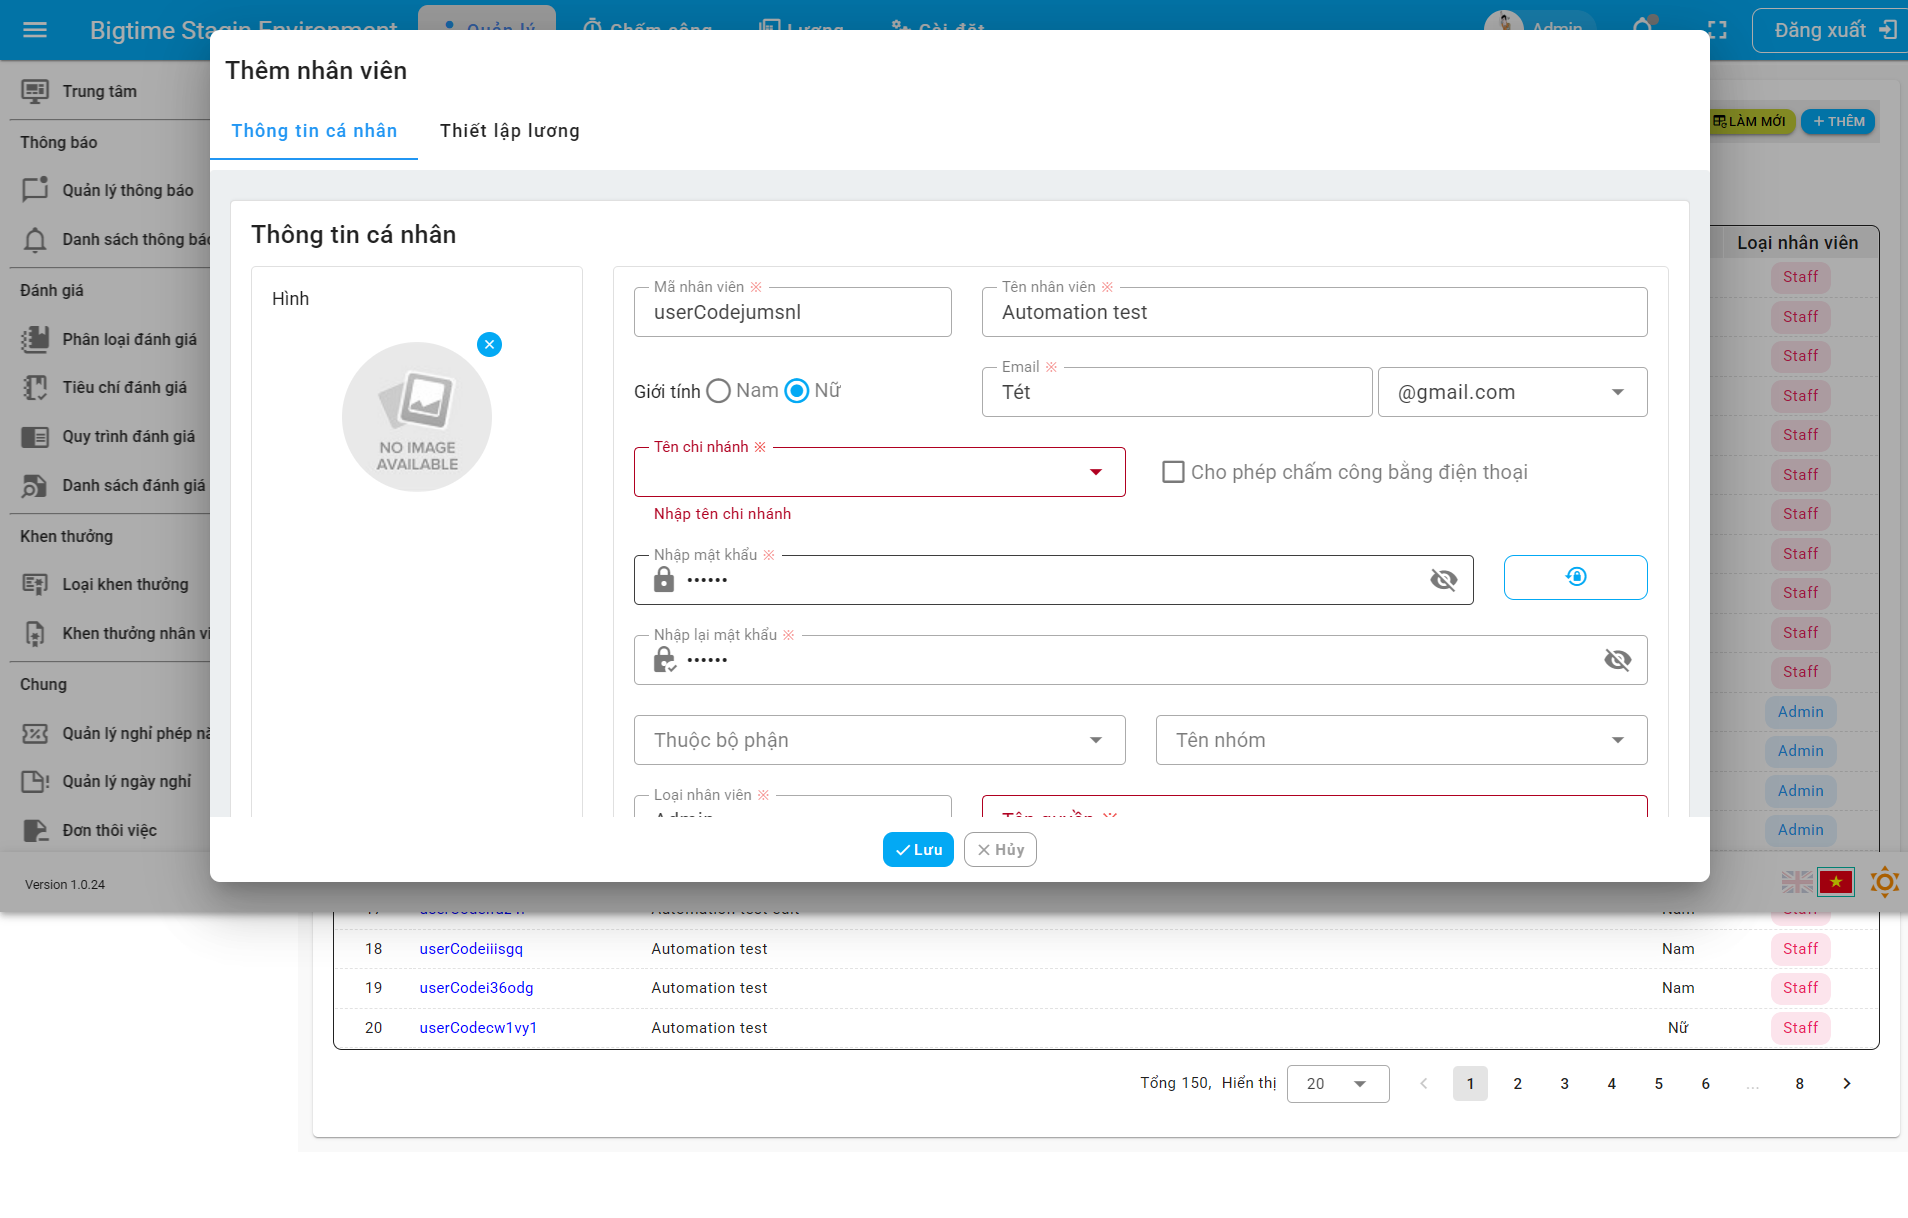
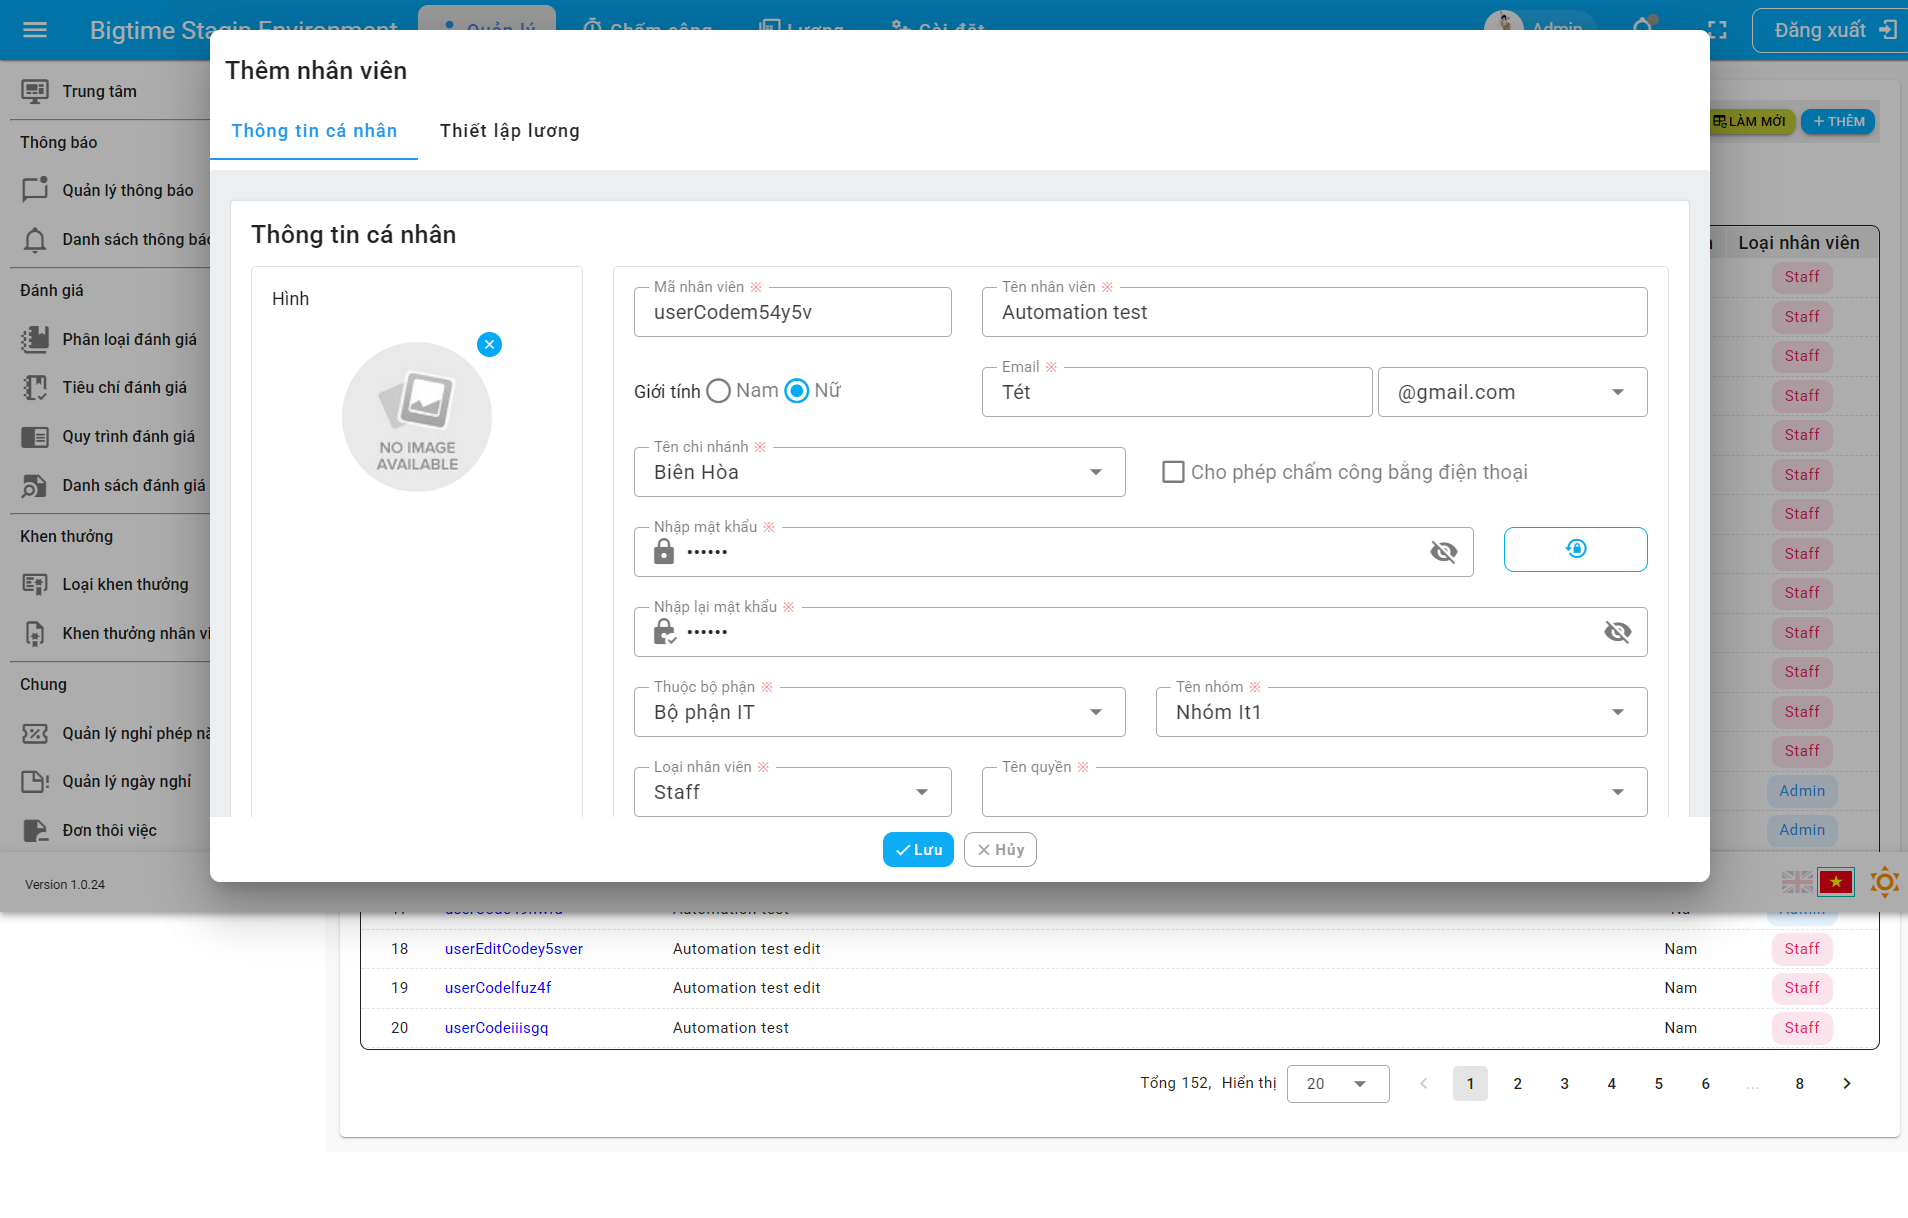
update test scripts employee

diff --git a/pages/EmployeePage.ts b/pages/EmployeePage.ts
@@ -65,11 +65,24 @@ export class EmployeePage {
   readonly emailError: Locator;
   readonly dailySalary: Locator;
   readonly dropdownSalaryType: Locator;
+  readonly selectAdmin: Locator;
+  readonly emailAddressExisted: Locator;
+  readonly employeeCodeExisted: Locator;
+  readonly validateEmployeeCode: Locator;
+  readonly validateEmail: Locator;
+  readonly validateEmployeeName: Locator;
+  readonly validateRoleName: Locator;
 
 
   constructor(page: Page) {
     this.page = page;
 
+    this.validateRoleName = page.locator("//div[contains(text(),'Nhập tên quyền')]");
+    this.validateEmail = page.locator("//div[contains(text(),'Nhập email')]");
+    this.validateEmployeeName = page.locator("//div[contains(text(),'Nhập tên nhân viên')]");
+    this.validateEmployeeCode = page.locator("//div[contains(text(),'Nhập mã nhân viên')]");
+    this.employeeCodeExisted = page.locator("//li[contains(text(),'Mã nhân viên đã tồn tại.')]");
+    this.emailAddressExisted = page.locator("//li[contains(text(),'Địa chỉ email đã tồn tại.')]");
     this.dropdownSalaryType = page.locator("//div[@class='v-field v-field--active v-field--appended v-field--center-affix v-field--dirty v-field--variant-outlined v-theme--lightColor7 rounded-lg v-locale--is-ltr']//i[@class='mdi-menu-down mdi v-icon notranslate v-theme--lightColor7 v-icon--size-default v-select__menu-icon']");
     this.dailySalary = page.locator("//div[contains(text(),'Theo ngày')]");
     this.emailError = page.locator("//li[contains(text(),'Định dạng Địa chỉ email không hợp lệ.')]");
@@ -127,6 +140,7 @@ export class EmployeePage {
     this.selectDepartment = page.locator("//div[text()='Bộ phận IT']");
     this.dropdownDepartment = page.locator("//div[2]/div/div[10]/div/div/div/div[3]/div/input");
     this.selectStaff = page.locator("//div[@class='v-list-item-title'][normalize-space()='Staff']");
+    this.selectAdmin = page.locator("//div[@class='v-list-item-title'][normalize-space()='Admin']");
     this.dropdownEmployeeType = page.locator("//div[2]/div/div[12]/div/div/div/div[3]/div/input");
     this.email = page.locator("//div[2]/div/div[4]/div/div[1]/div/div/div/div[3]/div/input");
     this.employeeName = page.locator("//div[2]/div/div[2]/div/div/div/div[3]/div/input");
@@ -136,6 +150,35 @@ export class EmployeePage {
     
   }
 
+  async validateRequiredFields() {
+    const validations = [
+        { locator: this.validateRoleName, expectedText: 'Nhập tên quyền' },
+        { locator: this.validateEmail, expectedText: 'Nhập email' },
+        { locator: this.validateEmployeeName, expectedText: 'Nhập tên nhân viên' },
+        { locator: this.validateEmployeeCode, expectedText: 'Nhập mã nhân viên' },
+    ];
+
+    for (const { locator, expectedText } of validations) {
+        await expect(locator).toBeVisible();
+        await expect(locator).toHaveText(expectedText);
+    }
+}
+
+
+  async verifyEmployeeCodeExisted() {
+    await expect(this.employeeCodeExisted).toBeVisible();
+    await expect(this.employeeCodeExisted).toHaveText("Mã nhân viên đã tồn tại.");
+
+  }
+
+  async verifyEmailExisted() {
+    await expect(this.emailAddressExisted).toBeVisible();
+    await expect(this.emailAddressExisted).toHaveText("Địa chỉ email đã tồn tại.");
+  }
+
+  async clickAdmin() {
+    await this.selectAdmin.click();
+  }
 
   async clickDropdownSalaryType() {
     await this.dropdownSalaryType.click();

diff --git a/tests/employee.spec.ts b/tests/employee.spec.ts
@@ -7,7 +7,7 @@ import { EmployeePage } from '../pages/EmployeePage';
 import { ToastPage } from '../pages/ToastPage';
 import { HomePage } from '../pages/HomePage';
 
-test.describe('Employee Tests', () => {
+test.describe.serial('Employee Tests', () => {
     let loginPage: LoginPage;
     let employeePage: EmployeePage
     let toastPage: ToastPage;
@@ -35,8 +35,8 @@ test.describe('Employee Tests', () => {
         const randomAllowanceName = `Phụ cấp${randomSuffix}`;
         const userCode = `userCode${randomSuffix}`;
         const emailRandom = `email${randomSuffix}`;
-        const random10Digits = Math.floor(1000000000 + Math.random() * 9000000000); 
-        const phoneNumber = `09${Math.floor(100000000 + Math.random() * 900000000)}`; 
+        const random10Digits = Math.floor(1000000000 + Math.random() * 9000000000);
+        const phoneNumber = `09${Math.floor(100000000 + Math.random() * 900000000)}`;
 
         await loginPage.login(Config.admin_username, Config.admin_password);
         await homePage.clickAdmin();
@@ -184,10 +184,46 @@ test.describe('Employee Tests', () => {
         await employeePage.clickSelectBranch();
         await employeePage.clickDropdownDepartment();
         await employeePage.clickSelectDepartment();
+        await employeePage.clickDropdownEmployeeType();
+        await employeePage.clickStaff();
+        await employeePage.clickDropdownEmployeeType();
+        await employeePage.clickAdmin();
         await employeePage.clickDropdownRoleName();
         await employeePage.clickManagementDepartmentRole();
+
         await employeePage.clickSaveButton();
         await toastPage.getToastAddSuccess();
+    });
+
+    test('Add with duplicate employee code and email', async ({ page }) => {
+        await loginPage.login(Config.admin_username, Config.admin_password);
+        await homePage.clickAdmin();
+        await employeePage.clickUser();
+        await employeePage.clickAddButton();
+        await employeePage.fillEmployeeCode('BAT810');
+        await employeePage.fillEmployeeName('Automation test');
+        await employeePage.fillEmail('minh');
+        await employeePage.clickDropdownBranch();
+        await employeePage.clickSelectBranch();
+        await employeePage.clickDropdownDepartment();
+        await employeePage.clickSelectDepartment();
+        await employeePage.clickDropdownEmployeeType();
+        await employeePage.clickStaff();
+        await employeePage.clickSaveButton();
+        await toastPage.getToastAddFailed();
+        await employeePage.verifyEmailExisted();
+        await employeePage.verifyEmployeeCodeExisted();
+
+    });
+
+    test('Save but not fill any information', async ({ page }) => {
+        await loginPage.login(Config.admin_username, Config.admin_password);
+        await homePage.clickAdmin();
+        await employeePage.clickUser();
+        await employeePage.clickAddButton();
+        await employeePage.clickSaveButton();
+        await employeePage.validateRequiredFields();
+       
     });
 
     test('Edit employee name', async ({ page }) => {
